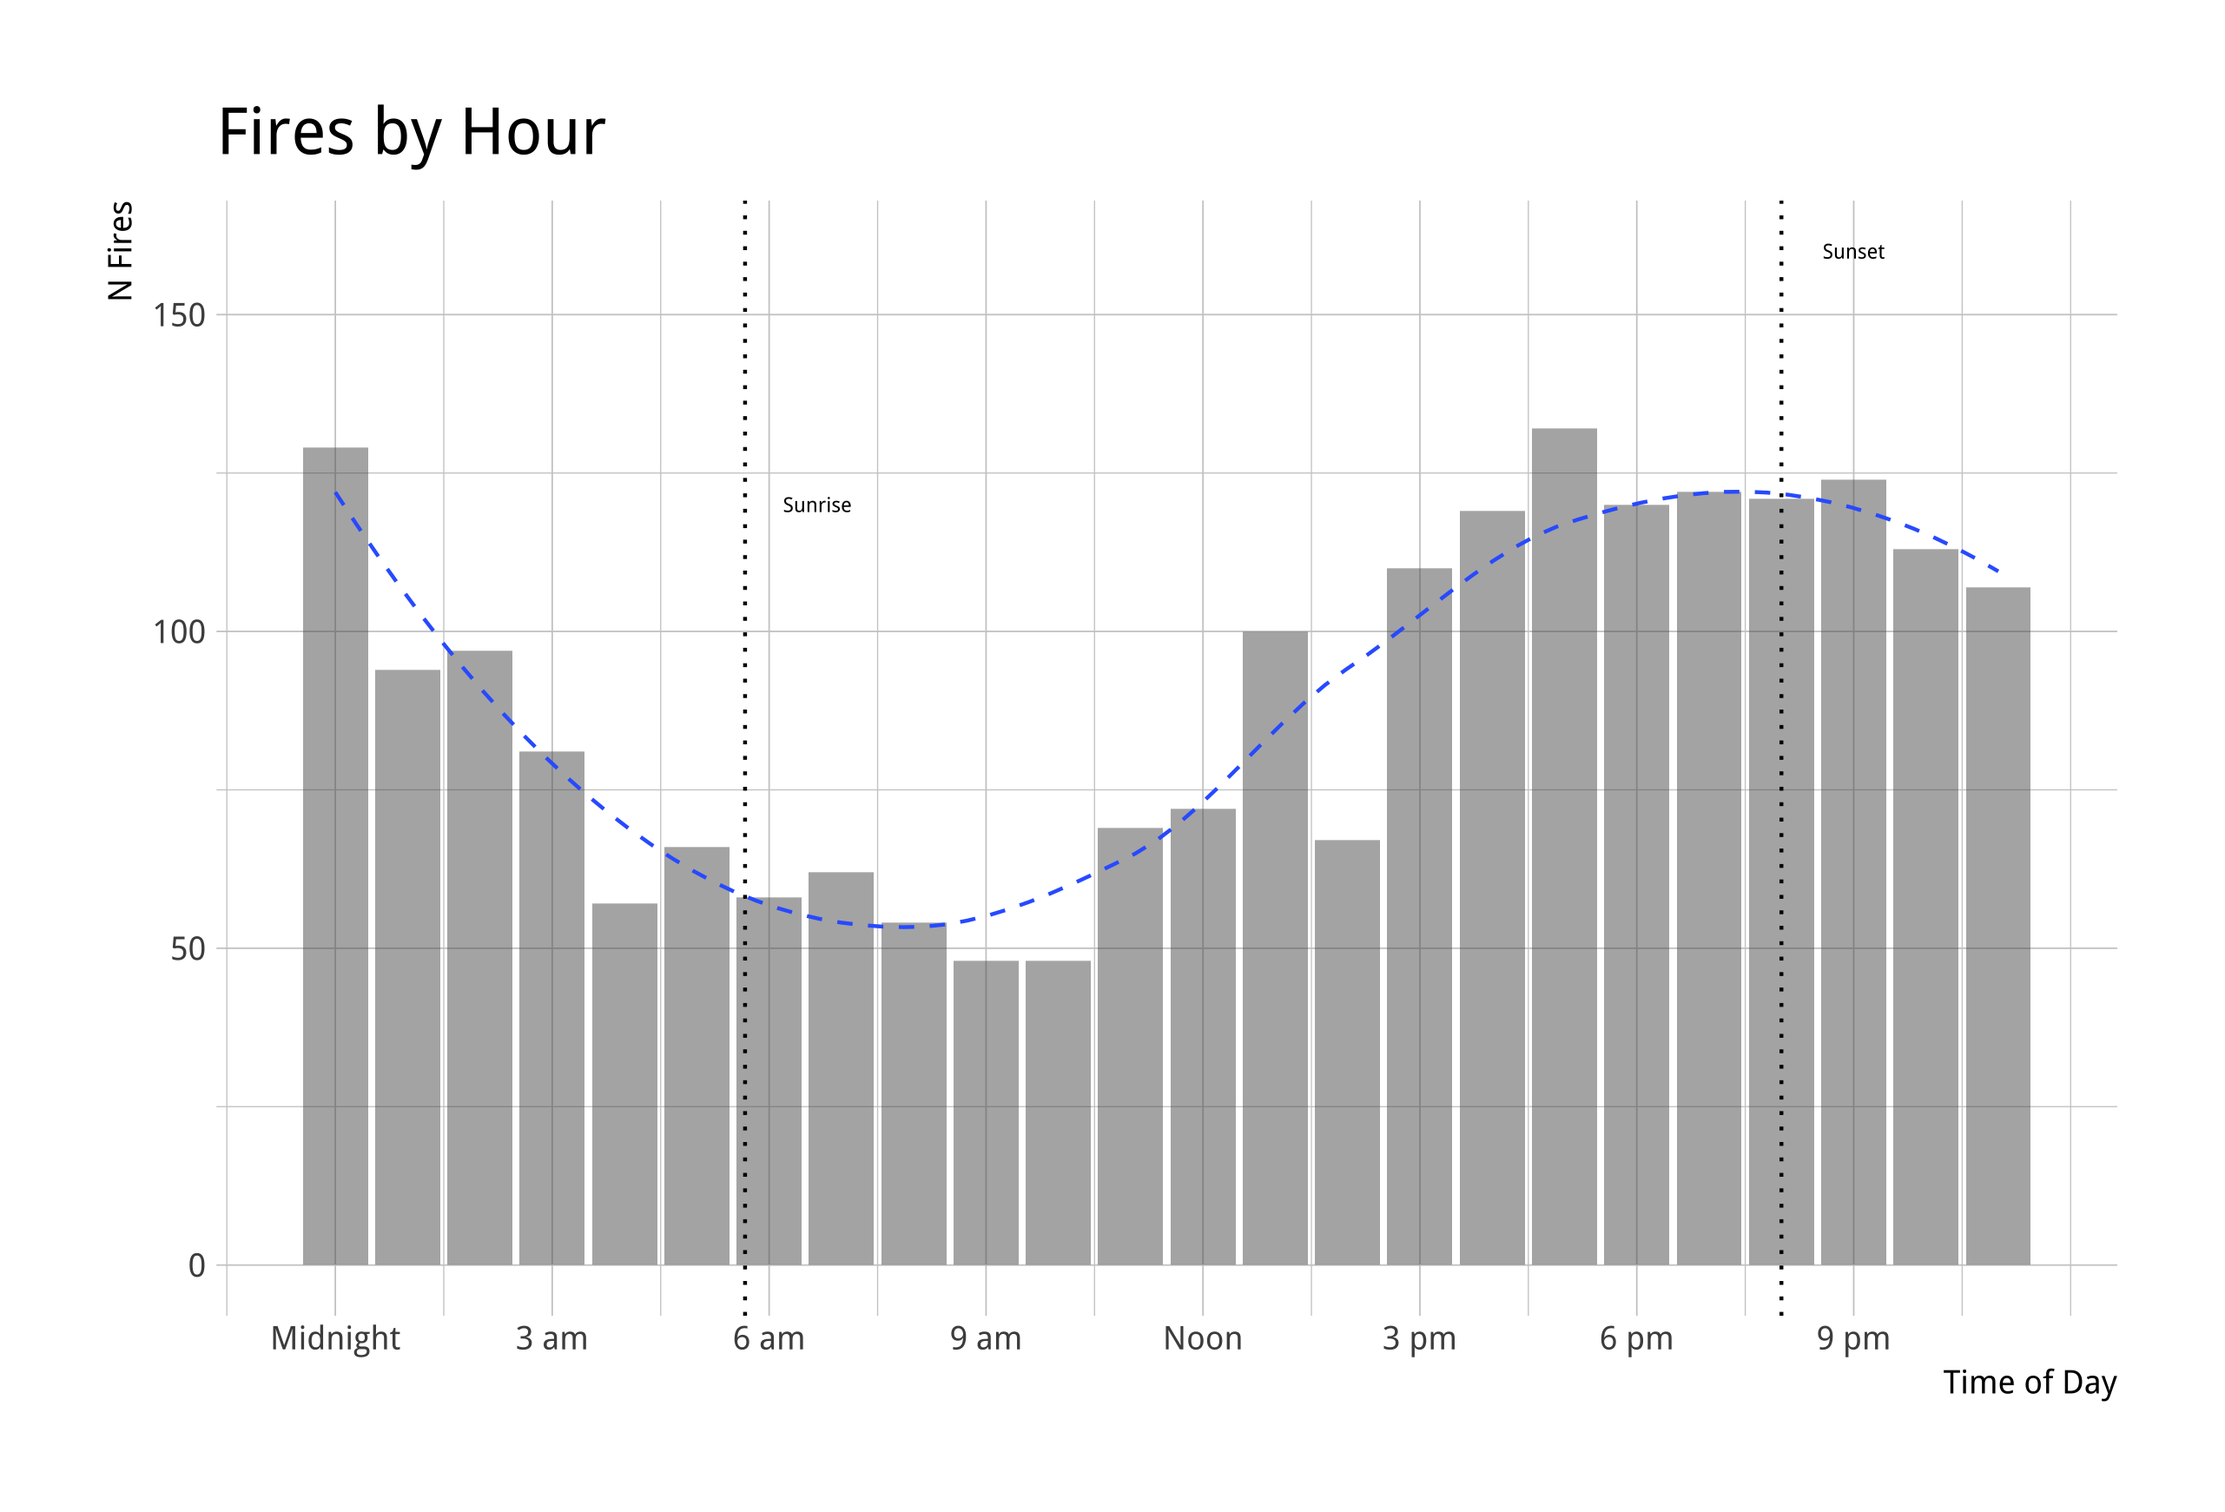
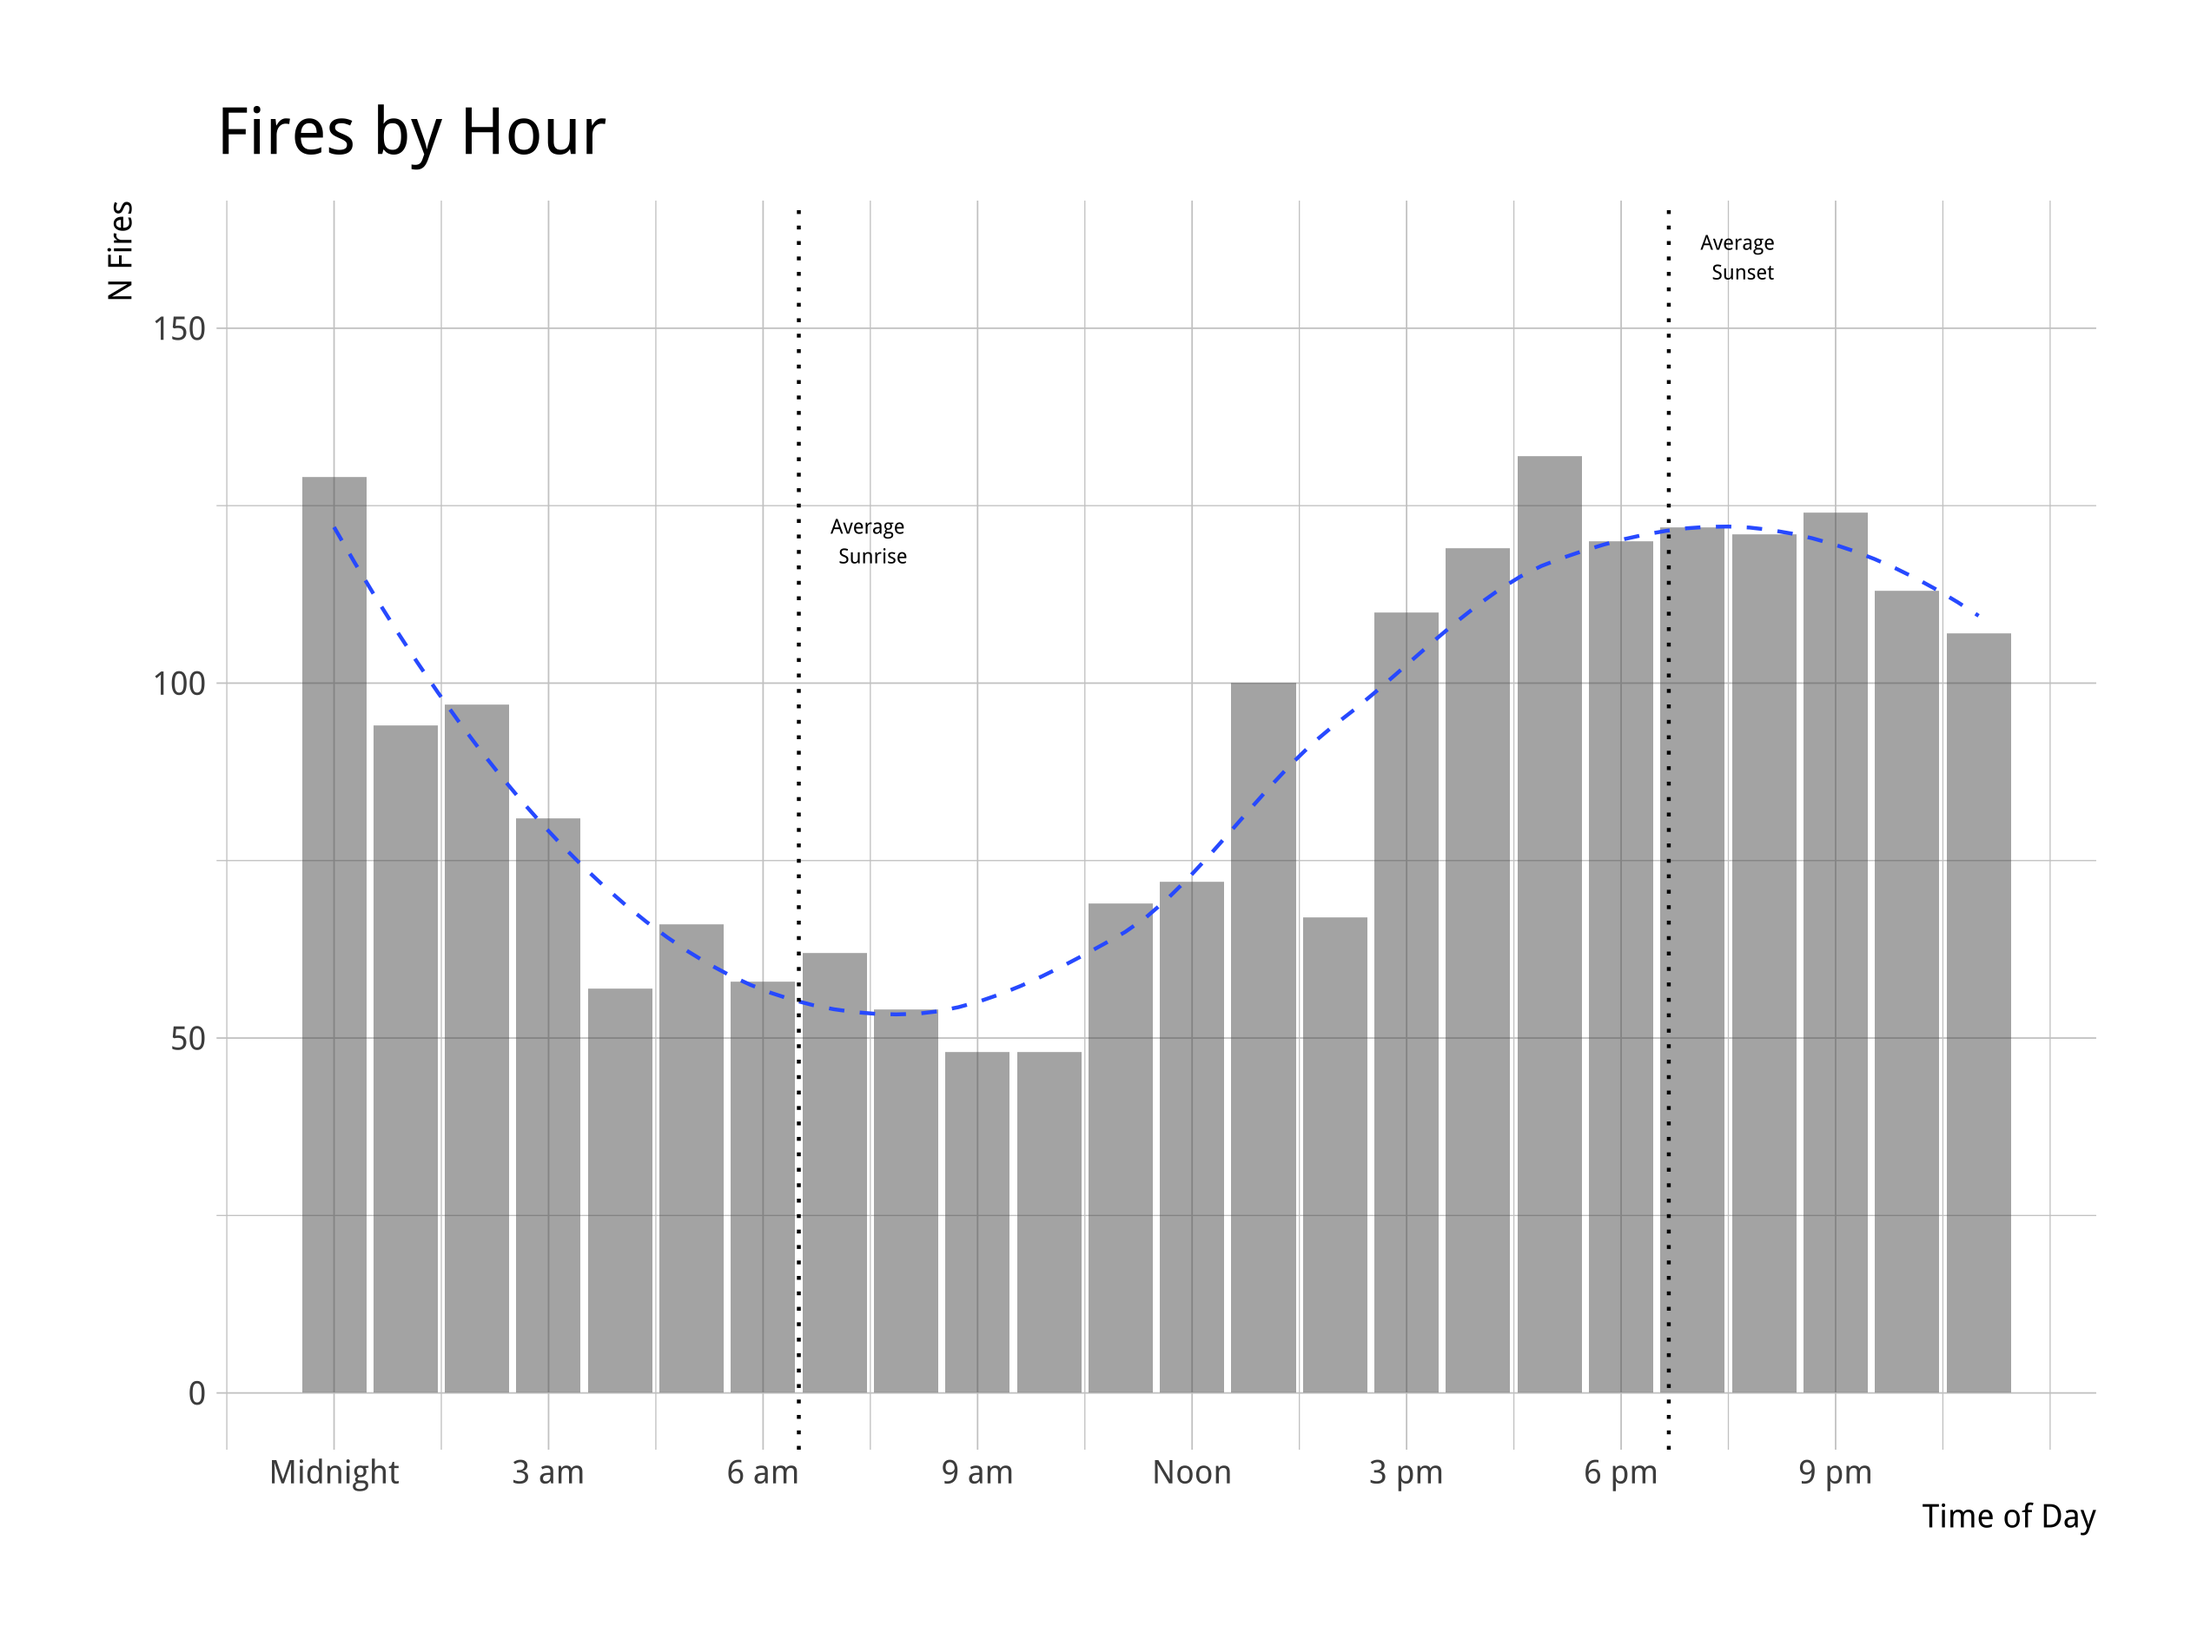
couple o tweaks

diff --git a/docs/index.html b/docs/index.html
@@ -32,10 +32,9 @@ class: inverse
 
 .left-column[
 
-**Day job**: Data Scientist at [Earlybird Software](http://www.earlybird.co/), former co-organizer of [R-Ladies Chicago](https://rladieschicago.org/)
+**Day job**: ultimate frisbee player
 
-**For fun**: ultimate frisbee player
-&lt;!-- .pull-left[![](./img/pingpong.jpg)] --&gt;
+**For fun**: Data Scientist at [Earlybird Software](http://www.earlybird.co/), former co-organizer of [R-Ladies Chicago](https://rladieschicago.org/)
 
 **GitHub**: [@aedobbyn](https://github.com/aedobbyn)
 
@@ -56,7 +55,6 @@ class: inverse
 
 --
 
-&lt;br&gt;
 
 - `drake` is a workflow management package for data pipelines (come talk to me about it!)
 
@@ -176,7 +174,7 @@ What if we were constructing an analysis of these tweets and wanted to make sure
 
 &lt;br&gt;
 
-All functions are defined in [`didnt_start_it.R`](https://github.com/aedobbyn/nyr-2019/blob/master/R/didnt_start_it.R), which we'll source in now.
+All functions are defined in [`R/didnt_start_it.R`](https://github.com/aedobbyn/nyr-2019/blob/master/R/didnt_start_it.R) in this repo, which we'll source in now.
 
 
 ```r
@@ -363,7 +361,9 @@ get_seed_tweets &lt;- function(user = firewire_handle,
       read_csv(input_path)
   } else {
     out &lt;-
-      get_timeline(user = user, n = n_tweets, max_id = max_id) %&gt;%
+      get_timeline(user = user, 
+                   n = n_tweets, 
+                   max_id = max_id) %&gt;%
       select(text, status_id, created_at, screen_name) 
   }
 
@@ -551,7 +551,7 @@ get_tweets(n_tweets_seed = 15)
 
 ## Reupping Tweets
 
-To show how `get_tweets` can start with a `tbl` of tweets and look for new ones,
+To test if `get_tweets` can start with a `tbl` of tweets and look for new ones,
 
 we'll grab 10 `seed_tweets` that are all **older** than an old tweet ID.
 
@@ -1381,7 +1381,6 @@ Answer:
 
 #### ⚡ Fire trivia lighting round! ⚡
 
-&lt;br&gt;
 
 *What time of day do fires typically happen?*
 
@@ -1397,6 +1396,8 @@ Answer:
 &lt;img src="./img/fires_by_hour.png" style="padding-left:0px;"&gt;
 
 &lt;!-- style="padding-right:100px;" --&gt;
+
+(Daily sunrise and sunset times scraped from [timeanddate.com](https://www.timeanddate.com/sun/usa/new-york).)
 
 ---
 
